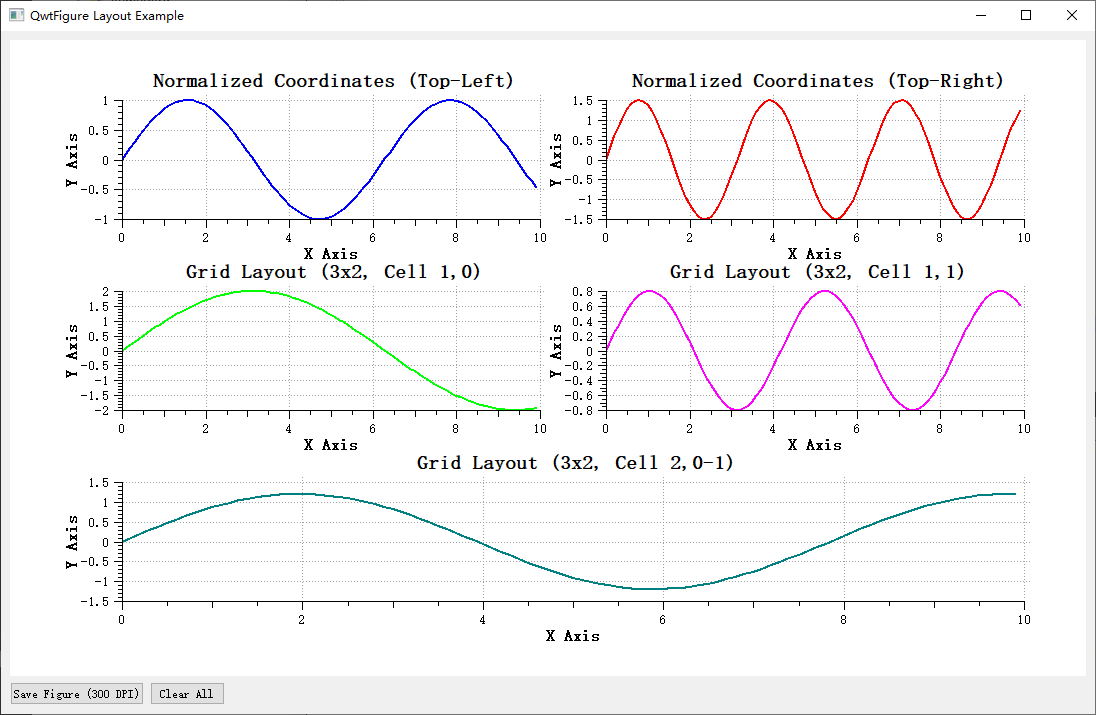
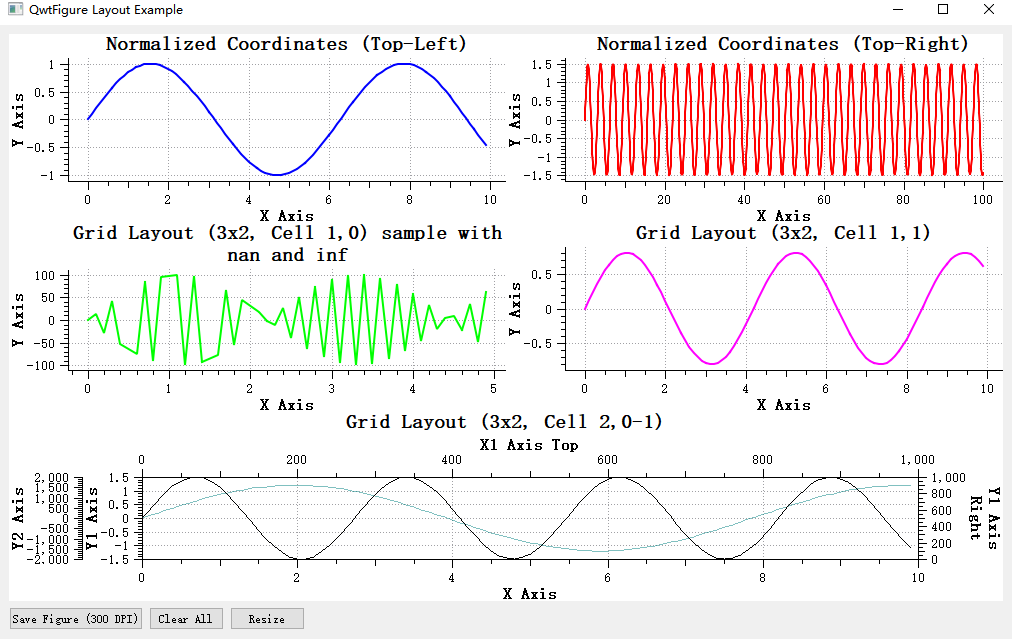
更新figure的截图和温度

diff --git a/examples/figure/main.cpp b/examples/figure/main.cpp
@@ -240,12 +240,6 @@ void createGrid32_parasitePlot(QwtFigure* figure)
     //! 添加宿主坐标系
     QwtPlot* parasitePlot = figure->createParasiteAxes(hostPlot, QwtAxis::YLeft);
 
-    //! 为了让宿主坐标显示出来，主坐标的左边要预留空白，通过setEdgeMargin设置坐标轴和绘图边缘的空白
-    // hostPlot->axisWidget(QwtAxis::YLeft)->setEdgeMargin(80);
-
-    //! 宿主坐标轴和画布偏移60像素，避免和主坐标轴重合
-    // parasitePlot->axisWidget(QwtAxis::YLeft)->setMargin(60);
-
     //! 宿主坐标轴的其他设置
     parasitePlot->setAxisTitle(QwtPlot::yLeft, "Y2 Axis");
 

diff --git a/docs/zh/use-guide/figure-widget.md b/docs/zh/use-guide/figure-widget.md
@@ -105,6 +105,52 @@ parasiteYRight->setAxisTitle(QwtAxis::YRight, "Secondary Y");
 
 寄生绘图的详细使用方法请参考：[寄生绘图](parasite-axes.md)
 
+下面是使用QwtFigure的较为完整的演示：
+
+```cpp
+// 创建 QwtFigure
+QwtFigure* figure = new QwtFigure();
+figure->setSizeInches(8, 6);      // 设置图形尺寸为8x6英寸
+figure->setFaceColor(Qt::white);  // 设置背景颜色
+
+// 示例1: 使用归一化坐标添加绘图
+QwtPlot* plot1       = new QwtPlot();
+...
+figure->addAxes(plot1, 0.0, 0.0, 0.5, 0.3333333);  // 左上角
+
+QwtPlot* plot2       = new QwtPlot();
+...
+figure->addAxes(plot2, 0.5, 0.0, 0.5, 0.33333333);  // 右上角
+
+// 示例2: 使用网格布局添加绘图
+QwtPlot* plot3       = new QwtPlot();
+...
+figure->addGridAxes(plot3, 3, 2, 1, 0);  // 3x2网格，第1行第0列（0base）
+
+QwtPlot* plot4       = new QwtPlot();
+...
+figure->addGridAxes(plot4, 3, 2, 1, 1);  // 2x2网格，第1行第1列（0base）
+
+// 示例3: 多坐标轴创建
+//! 创建宿主绘图
+QwtPlot* hostPlot = new QwtPlot();
+hostPlot->setCanvasBackground(Qt::white);
+...
+//! 把主绘图添加到figure中
+figure->addGridAxes(hostPlot, 3, 2, 2, 0, 1, 2);  // 3x2网格，第2行第0列，跨2列
+
+//! 添加宿主坐标系
+QwtPlot* parasitePlot = figure->createParasiteAxes(hostPlot, QwtAxis::YLeft);
+//! 宿主坐标轴的其他设置
+
+//! 最后窗口显示前执行以下宿主绘图的replot，刷新坐标轴
+QMetaObject::invokeMethod(hostPlot, &QwtPlot::replot, Qt::QueuedConnection);
+```
+
+上面例子的效果如下图：
+
+![qwt_figure](../../assets/screenshots/qwt_figure.png)
+
 ### 图形导出
 
 ```cpp
